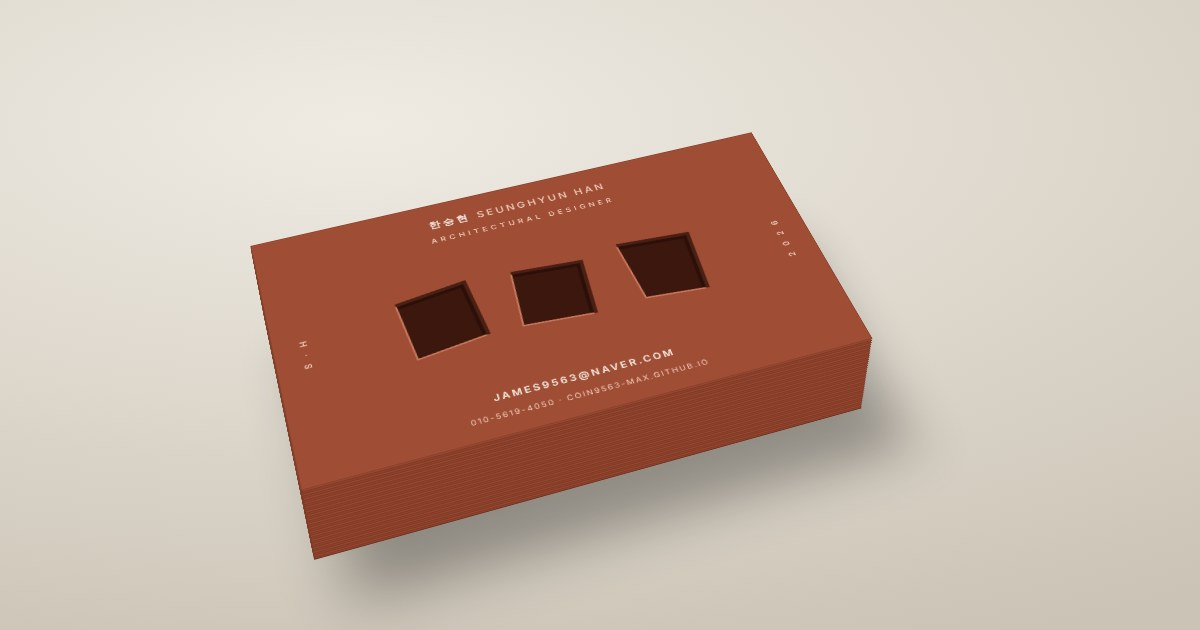
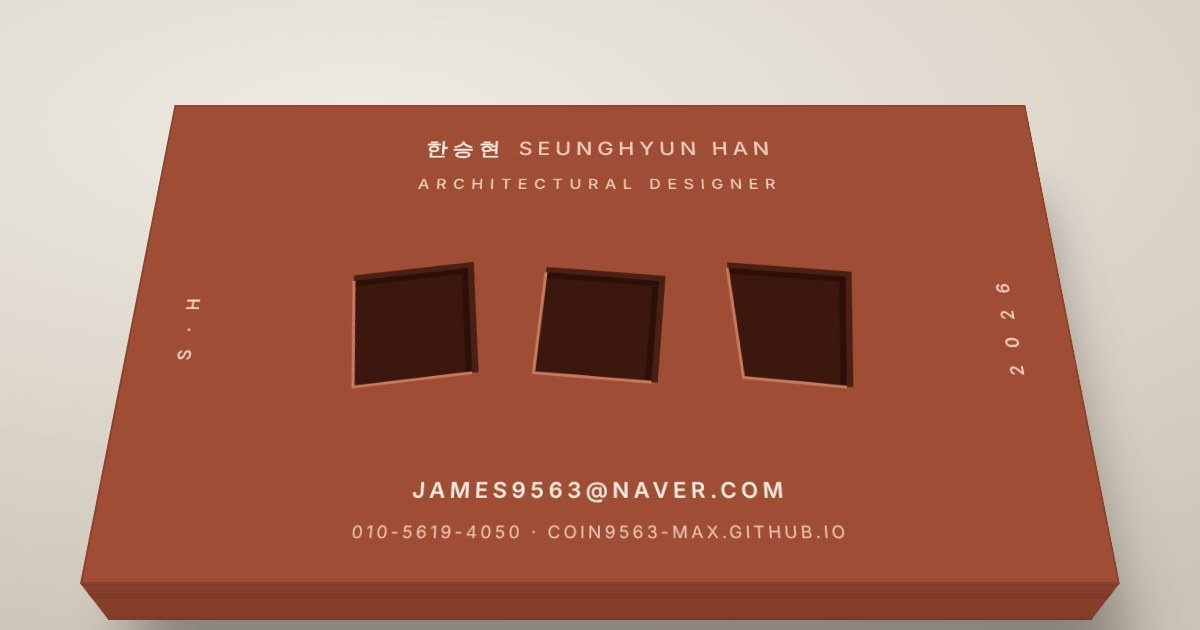
링크 미리보기: 명함 정면으로 꽉 차게
Claude-Session: https://claude.ai/code/session_016LbPh7z2mDRxgdtvgt8upL

diff --git a/_src/make_og.js b/_src/make_og.js
@@ -2,7 +2,7 @@ const {chromium}=require('playwright');(async()=>{const b=await chromium.launch(
 await p.goto('file:///home/user/coin9563-max.github.io/projects.html');await p.waitForTimeout(600);
 await p.addStyleTag({content:`body>*:not(.bst){display:none!important}html,body{background:radial-gradient(120% 90% at 30% 20%,#efebe3,#cfc8bb)!important}
 .bst::before{display:none}.bst{background:radial-gradient(120% 90% at 30% 20%,#efebe3,#cbc3b5)!important;place-items:center!important;padding:0!important;perspective-origin:50% 0%!important}
-.bsk{width:600px!important;transition:none!important}.bst.up .bsk{transform:translateY(-70px) rotateX(52deg) rotateZ(-18deg)!important}
+.bsk{width:1040px!important;transition:none!important}.bst.up .bsk{transform:translateY(-20px) rotateX(38deg)!important}.bpk{zoom:2}
 .bsk .ly:first-child{box-shadow:inset 0 0 0 1px #6e3120,30px 60px 60px #0005!important}`});
 await p.evaluate(()=>{BCard.el().classList.add('up')});await p.waitForTimeout(400);
 await p.screenshot({path:'/home/user/coin9563-max.github.io/og-card.jpg',type:'jpeg',quality:88});await b.close();})();
